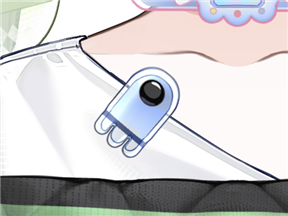
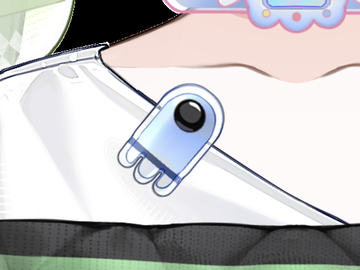
自动更新 2026-09-29 20:48

diff --git a/css/base.css b/css/base.css
@@ -433,44 +433,46 @@ body.dark .chip-tag,body.dark .chip-tag b{color:#f2f4e2}
 .design-strip-head::after{content:"";flex:1;height:3px;background:var(--line)}
 
 /* ---------- 设计元素拍立得轮盘（DESIGN ELEMENTS，5 项轮切） ---------- */
-.de-carousel{position:relative;max-width:800px;margin:30px auto 0;display:flex;flex-direction:column;align-items:center;outline:none}
-.de-stage{position:relative;width:100%;height:346px;display:flex;align-items:center;justify-content:center;padding-top:12px}
+.de-carousel{position:relative;max-width:980px;margin:30px auto 0;display:flex;flex-direction:column;align-items:center;outline:none}
+.de-stage{position:relative;width:100%;height:410px;display:flex;align-items:center;justify-content:center;padding-top:12px}
 .de-slot{flex:0 0 auto;display:flex;align-items:center;justify-content:center;position:relative;transition:transform .18s,opacity .2s;cursor:pointer}
 .de-slot.is-c0{z-index:4}
 .de-slot.is-l1,.de-slot.is-r1{z-index:3;opacity:.6}
 .de-slot.is-l2,.de-slot.is-r2{z-index:2;opacity:.4}
-.de-slot.is-l1{margin-right:-34px;transform:rotate(-1.5deg)}
-.de-slot.is-r1{margin-left:-34px;transform:rotate(1.5deg)}
-.de-slot.is-l2{margin-right:-26px;transform:rotate(-3deg)}
-.de-slot.is-r2{margin-left:-26px;transform:rotate(3deg)}
+.de-slot.is-l1{margin-right:-42px;transform:rotate(-1.5deg)}
+.de-slot.is-r1{margin-left:-42px;transform:rotate(1.5deg)}
+.de-slot.is-l2{margin-right:-32px;transform:rotate(-3deg)}
+.de-slot.is-r2{margin-left:-32px;transform:rotate(3deg)}
 /* 拍立得相框：始终浅色（实体照片感）+ 顶部纸胶带 + 底部留白写介绍 */
 .de-pola{background:#fbfcf2;border:3px solid #303030;box-shadow:4px 4px 0 rgba(48,48,48,.4);padding:8px 8px 0;position:relative;display:flex;flex-direction:column;align-items:center}
-.de-pola::before{content:"";position:absolute;top:-11px;left:50%;transform:translateX(-50%);width:54px;height:16px;background:#d4da7b;border:2px solid #303030;z-index:3}
+.de-pola::before{content:"";position:absolute;top:-11px;left:50%;transform:translateX(-50%);width:68px;height:18px;background:#d4da7b;border:2px solid #303030;z-index:3}
 .de-pic{position:relative;overflow:hidden;background:#f0f2d8;border:2px solid #d5d9ad}
 .de-pic img{display:block;object-fit:contain;image-rendering:pixelated}
 .de-pic img.is-locked{filter:brightness(.32) contrast(1.05)}
-.de-q{position:absolute;inset:0;display:flex;align-items:center;justify-content:center;font-size:76px;line-height:1;color:#fbfcf2;text-shadow:5px 5px 0 rgba(48,48,48,.85);animation:blink 2.6s steps(1) infinite}
+.de-q{position:absolute;inset:0;display:flex;align-items:center;justify-content:center;font-size:95px;line-height:1;color:#fbfcf2;text-shadow:5px 5px 0 rgba(48,48,48,.85);animation:blink 2.6s steps(1) infinite}
 .de-body{width:100%;padding:7px 8px 9px;border-top:2px dashed #d5d9ad;margin-top:7px;overflow:hidden}
 .de-title{color:#8b9150;letter-spacing:1px;line-height:1.6}
 .de-text{color:#525859;line-height:1.6;text-indent:2em}
-/* 三档尺寸：拍立得统一 1:1 正方形卡片（中 314 / 次 170 / 小 122），照片区 4:3，图片按 1:1 重采样零缩放无锯齿 */
-.de-slot.is-c0 .de-pola{width:314px;height:314px}
-.de-slot.is-c0 .de-pic{width:288px;height:216px}
-.de-slot.is-c0 .de-pic img{width:288px;height:216px}
-.de-slot.is-c0 .de-body{height:71px;padding:6px 9px 0}
-.de-slot.is-c0 .de-title{font-size:12px}
-.de-slot.is-c0 .de-text{font-size:11px}
-.de-slot.is-l1 .de-pola,.de-slot.is-r1 .de-pola{width:170px;height:170px}
-.de-slot.is-l1 .de-pic,.de-slot.is-r1 .de-pic{width:144px;height:108px}
-.de-slot.is-l1 .de-pic img,.de-slot.is-r1 .de-pic img{width:144px;height:108px}
-.de-slot.is-l1 .de-body,.de-slot.is-r1 .de-body{height:38px;padding:3px 6px 0;margin-top:4px}
-.de-slot.is-l1 .de-title,.de-slot.is-r1 .de-title{font-size:10px}
-.de-slot.is-l1 .de-text,.de-slot.is-r1 .de-text{font-size:9px}
-.de-slot.is-l2 .de-pola,.de-slot.is-r2 .de-pola{width:122px;height:122px}
-.de-slot.is-l2 .de-pic,.de-slot.is-r2 .de-pic{width:96px;height:72px}
-.de-slot.is-l2 .de-pic img,.de-slot.is-r2 .de-pic img{width:96px;height:72px}
-.de-slot.is-l2 .de-body,.de-slot.is-r2 .de-body{height:27px;padding:2px 5px 0;margin-top:3px}
-.de-slot.is-l2 .de-title,.de-slot.is-r2 .de-title{font-size:8px}
+/* 三档尺寸：拍立得统一 1:1 正方形卡片（中 386 / 次 206 / 小 146），照片区 4:3。
+   2026-09-29 用户报「高清图变缩略图」→ 照片区整体放大 1.25 倍，
+   素材用主文件夹原图重采样（外套！从 5004px 原图出），中档 360×270 显示=1:1 零缩放 */
+.de-slot.is-c0 .de-pola{width:386px;height:386px}
+.de-slot.is-c0 .de-pic{width:360px;height:270px}
+.de-slot.is-c0 .de-pic img{width:360px;height:270px}
+.de-slot.is-c0 .de-body{height:95px;padding:7px 10px 0}
+.de-slot.is-c0 .de-title{font-size:13px}
+.de-slot.is-c0 .de-text{font-size:12px}
+.de-slot.is-l1 .de-pola,.de-slot.is-r1 .de-pola{width:206px;height:206px}
+.de-slot.is-l1 .de-pic,.de-slot.is-r1 .de-pic{width:180px;height:135px}
+.de-slot.is-l1 .de-pic img,.de-slot.is-r1 .de-pic img{width:180px;height:135px}
+.de-slot.is-l1 .de-body,.de-slot.is-r1 .de-body{height:53px;padding:4px 7px 0;margin-top:5px}
+.de-slot.is-l1 .de-title,.de-slot.is-r1 .de-title{font-size:11px}
+.de-slot.is-l1 .de-text,.de-slot.is-r1 .de-text{font-size:10px}
+.de-slot.is-l2 .de-pola,.de-slot.is-r2 .de-pola{width:146px;height:146px}
+.de-slot.is-l2 .de-pic,.de-slot.is-r2 .de-pic{width:120px;height:90px}
+.de-slot.is-l2 .de-pic img,.de-slot.is-r2 .de-pic img{width:120px;height:90px}
+.de-slot.is-l2 .de-body,.de-slot.is-r2 .de-body{height:39px;padding:3px 6px 0;margin-top:4px}
+.de-slot.is-l2 .de-title,.de-slot.is-r2 .de-title{font-size:9px}
 .de-slot.is-l2 .de-text,.de-slot.is-r2 .de-text{display:none}
 /* 悬停时介绍栏出现滚动条，可预览完整介绍（像素风滚动条） */
 .de-slot:hover .de-body{overflow-y:auto}
@@ -496,18 +498,18 @@ body.dark .chip-tag,body.dark .chip-tag b{color:#f2f4e2}
 .de-modal-close{position:absolute;top:-16px;right:-16px;width:38px;height:38px;font-size:22px;line-height:1;cursor:pointer;background:#fbfcf2;color:#303030;border:3px solid #303030;box-shadow:3px 3px 0 rgba(48,48,48,.85);z-index:5;padding:0}
 .de-modal-close:hover{transform:translate(-1px,-1px)}
 .de-modal-close:active{transform:translate(2px,2px);box-shadow:none}
-.de-modal .de-pola-lg{width:426px;max-height:92vh;cursor:default;animation:pxShow .25s steps(4) forwards}
-.de-modal .de-pola-lg .de-pic{width:400px;height:300px;flex:0 0 auto}
-.de-modal .de-pola-lg .de-pic img{width:400px;height:300px}
-.de-modal .de-pola-lg .de-body{height:auto;min-height:0;max-height:38vh;overflow-y:auto;padding:10px 14px 12px;margin-top:9px}
+/* 点开的大图：2026-09-29 用户报「高清图变缩略图」→ 从固定 400×300 改成按图片本身清晰度显示，
+   最大 720×540（外套！这类原图大的就吃满，源图小的按自己的尺寸 1:1 显示，都不糊） */
+.de-modal .de-pola-lg{max-height:92vh;cursor:default;animation:pxShow .25s steps(4) forwards}
+.de-modal .de-pola-lg .de-pic{flex:0 0 auto}
+.de-modal .de-pola-lg .de-pic img{width:auto;height:auto;max-width:min(720px,86vw);max-height:60vh;image-rendering:auto}
+.de-modal .de-pola-lg .de-body{height:auto;min-height:0;max-height:22vh;overflow-y:auto;padding:10px 14px 12px;margin-top:9px}
 .de-modal .de-pola-lg .de-title{font-size:14px}
 .de-modal .de-pola-lg .de-text{font-size:14px}
-.de-modal .de-pola-lg .de-q{font-size:130px}
+.de-modal .de-pola-lg .de-q{font-size:180px}
 @media(max-width:560px){
-  .de-modal .de-pola-lg{width:266px}
-  .de-modal .de-pola-lg .de-pic{width:240px;height:180px}
-  .de-modal .de-pola-lg .de-pic img{width:240px;height:180px}
-  .de-modal .de-pola-lg .de-q{font-size:80px}
+  .de-modal .de-pola-lg .de-body{max-height:30vh}
+  .de-modal .de-pola-lg .de-q{font-size:110px}
 }
 /* 窄屏：依次收起外层卡片（尺寸不变，仍 1:1 无锯齿） */
 @media(max-width:820px){

diff --git a/index.html b/index.html
@@ -28,7 +28,7 @@
 <link rel="preconnect" href="https://cdn.jsdelivr.net" crossorigin>
 <link rel="stylesheet" href="https://cdn.jsdelivr.net/npm/@fontsource/fusion-pixel-12px-proportional-sc@5/400.css">
 <link rel="stylesheet" href="https://cdn.jsdelivr.net/npm/@fontsource/press-start-2p@5/400.css">
-<link rel="stylesheet" href="css/base.css?v=202609261905">
+<link rel="stylesheet" href="css/base.css?v=202609291930">
 
 <!-- ============ 开屏动画（像素开机画面，⚙可删除） ============ -->
 <div id="splash" role="dialog" aria-label="正在进入 羽啾chu2u 宇宙观测中心">
@@ -545,7 +545,7 @@
 <!-- 悬浮飘窗按钮的文案与跳转链接（手动维护，用 维护\飘窗手动更新.ps1 或直接改该文件） -->
 <script src="data/floatbtn.js?v=202609261905"></script>
 <!-- 设计元素数据（手动维护，可用 维护\维护台 编辑） -->
-<script src="data/design.js?v=202609291859"></script>
+<script src="data/design.js?v=202609291930"></script>
 <!-- 作品展柜数据（手动维护，可用 维护\维护台 编辑） -->
 <script src="data/works.js?v=202609261920"></script>
 <script>
@@ -744,7 +744,10 @@
     var stage = root.querySelector(".de-stage");
     var reduce = window.matchMedia && window.matchMedia("(prefers-reduced-motion: reduce)").matches;
     // 🎨 素材配置：设计元素数据（按此顺序轮切；img 为 images/design/ 下文件名前缀，自动补 -c/-m/-s；locked:true = 压暗+大像素问号）
-    var DE_ITEMS = window.CHU2U_DESIGN || [];   /* 数据在 data/design.js（可用维护台编辑） */
+    var DE_ITEMS = window.CHU2U_DESIGN || [];   /* 数据在 data/design.js（可用猫猫管理台编辑） */
+    /* 图片带版本串：/images/* 缓存 7 天，换图后不加 ?v= 浏览器会一直吃旧图
+       （版本号 = design.js 里的 UPDATED，重做图片时把它改成当天即可） */
+    var DE_VER = window.CHU2U_DESIGN_UPDATED || "1";
     var N = DE_ITEMS.length, cur = 0, timer = null;
     var POS = { "is-l2":-2, "is-l1":-1, "is-c0":0, "is-r1":1, "is-r2":2 };
     var TIER = { "is-c0":"c", "is-l1":"m", "is-r1":"m", "is-l2":"s", "is-r2":"s" };
@@ -755,7 +758,7 @@
       var pic = document.createElement("div");
       pic.className = "de-pic";
       var im = document.createElement("img");
-      im.src = item.img + "-" + tier + ".png";
+      im.src = item.img + "-" + tier + ".png?v=" + DE_VER;
       im.alt = "「" + item.title + "」";
       if(item.locked) im.className = "is-locked";
       pic.appendChild(im);

diff --git a/data/design.js b/data/design.js
@@ -6,9 +6,12 @@
  *   text    介绍文字
  *   locked  填 true = 未解锁（显示压暗 + 问号），"敬请期待"那种
  *
- * 也可以在 维护\维护台 里点「设计元素」用界面改（推荐）。
+ * 注意：下面的 UPDATED **还兼作图片的缓存版本号**——页面给图片地址加的 ?v= 就是它。
+ *      换图后要把它改成新的时间（猫猫管理台会自动做），否则浏览器 7 天内还会用旧图。
+ *
+ * 也可以在 维护\猫猫管理\ 的「🧭 设计元素」页用界面改（推荐，换图会自动生成四档尺寸）。
  */
-window.CHU2U_DESIGN_UPDATED = "2026-09-29";
+window.CHU2U_DESIGN_UPDATED = "2026-09-29 20:47";
 
 window.CHU2U_DESIGN = [
   { img:"images/design/项圈！", title:"项圈！", text:"脖子上的项圈其实搭载了能实时监测生命活动的AI！除了检测生命体征以外，它还会自己眨眼哦~！不信你跟它对视10秒！", locked:false },

diff --git a/kb.html b/kb.html
@@ -28,7 +28,7 @@
 <link rel="preconnect" href="https://cdn.jsdelivr.net" crossorigin>
 <link rel="stylesheet" href="https://cdn.jsdelivr.net/npm/@fontsource/fusion-pixel-12px-proportional-sc@5/400.css">
 <link rel="stylesheet" href="https://cdn.jsdelivr.net/npm/@fontsource/press-start-2p@5/400.css">
-<link rel="stylesheet" href="css/base.css?v=202609261905">
+<link rel="stylesheet" href="css/base.css?v=202609291930">
 </head>
 <body>
 <div class="contour-bg" aria-hidden="true"></div>

diff --git a/playlist.html b/playlist.html
@@ -28,7 +28,7 @@
 <link rel="preconnect" href="https://cdn.jsdelivr.net" crossorigin>
 <link rel="stylesheet" href="https://cdn.jsdelivr.net/npm/@fontsource/fusion-pixel-12px-proportional-sc@5/400.css">
 <link rel="stylesheet" href="https://cdn.jsdelivr.net/npm/@fontsource/press-start-2p@5/400.css">
-<link rel="stylesheet" href="css/base.css?v=202609261905">
+<link rel="stylesheet" href="css/base.css?v=202609291930">
 </head>
 <body>
 <div class="contour-bg" aria-hidden="true"></div>

diff --git a/tetris.html b/tetris.html
@@ -28,7 +28,7 @@
 <link rel="preconnect" href="https://cdn.jsdelivr.net" crossorigin>
 <link rel="stylesheet" href="https://cdn.jsdelivr.net/npm/@fontsource/fusion-pixel-12px-proportional-sc@5/400.css">
 <link rel="stylesheet" href="https://cdn.jsdelivr.net/npm/@fontsource/press-start-2p@5/400.css">
-<link rel="stylesheet" href="css/base.css?v=202609261905">
+<link rel="stylesheet" href="css/base.css?v=202609291930">
 </head>
 <body>
 <div class="contour-bg" aria-hidden="true"></div>
